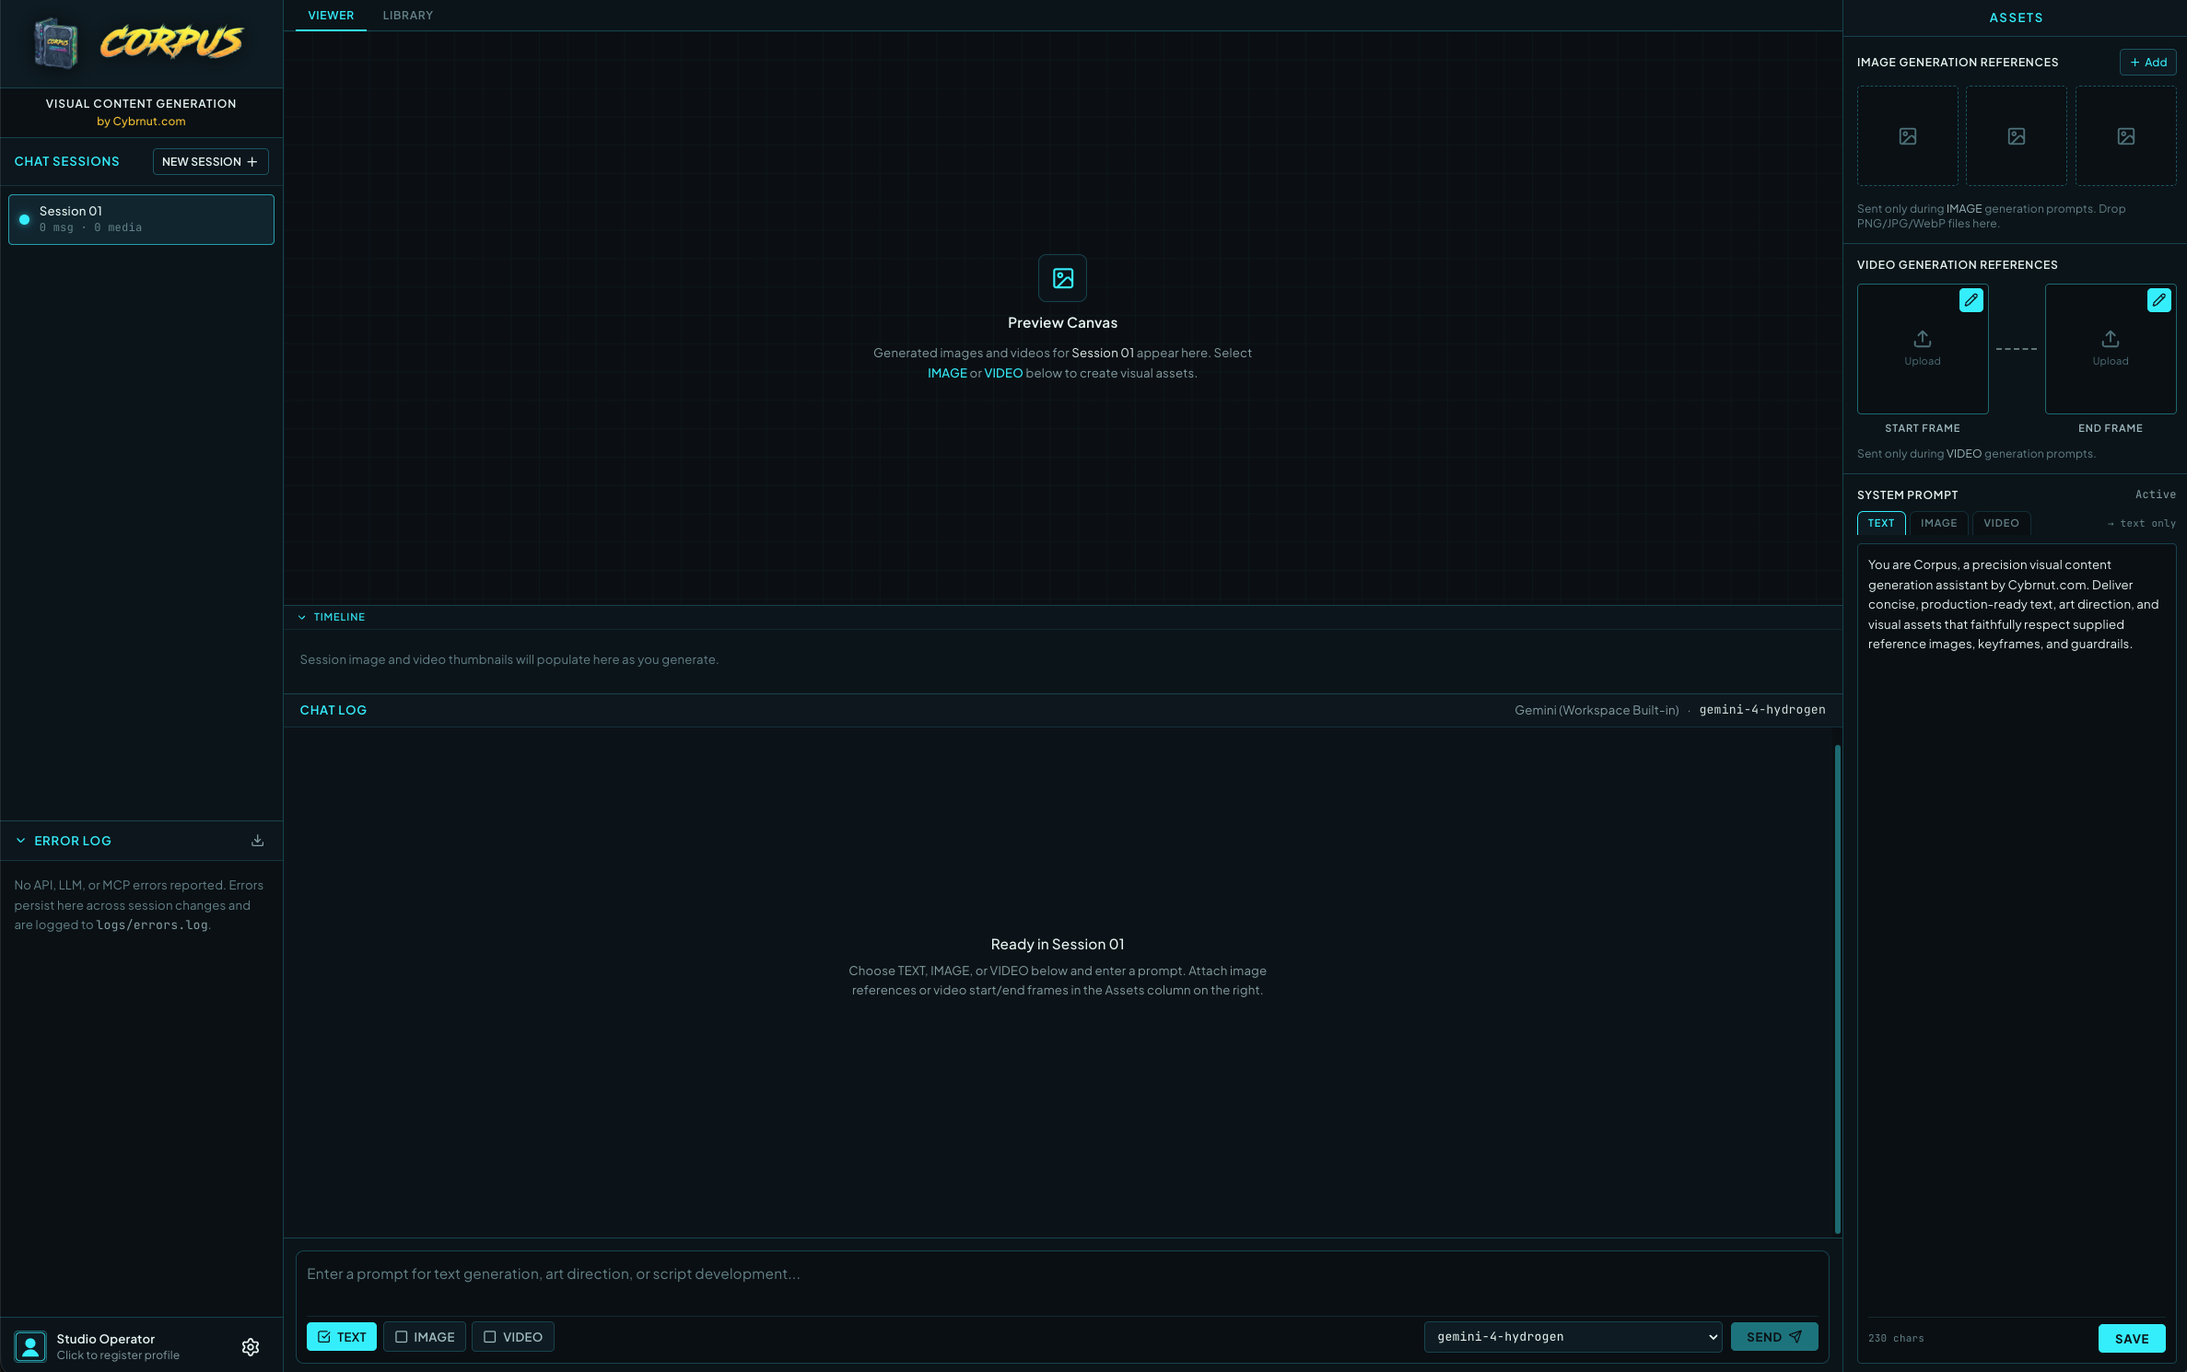
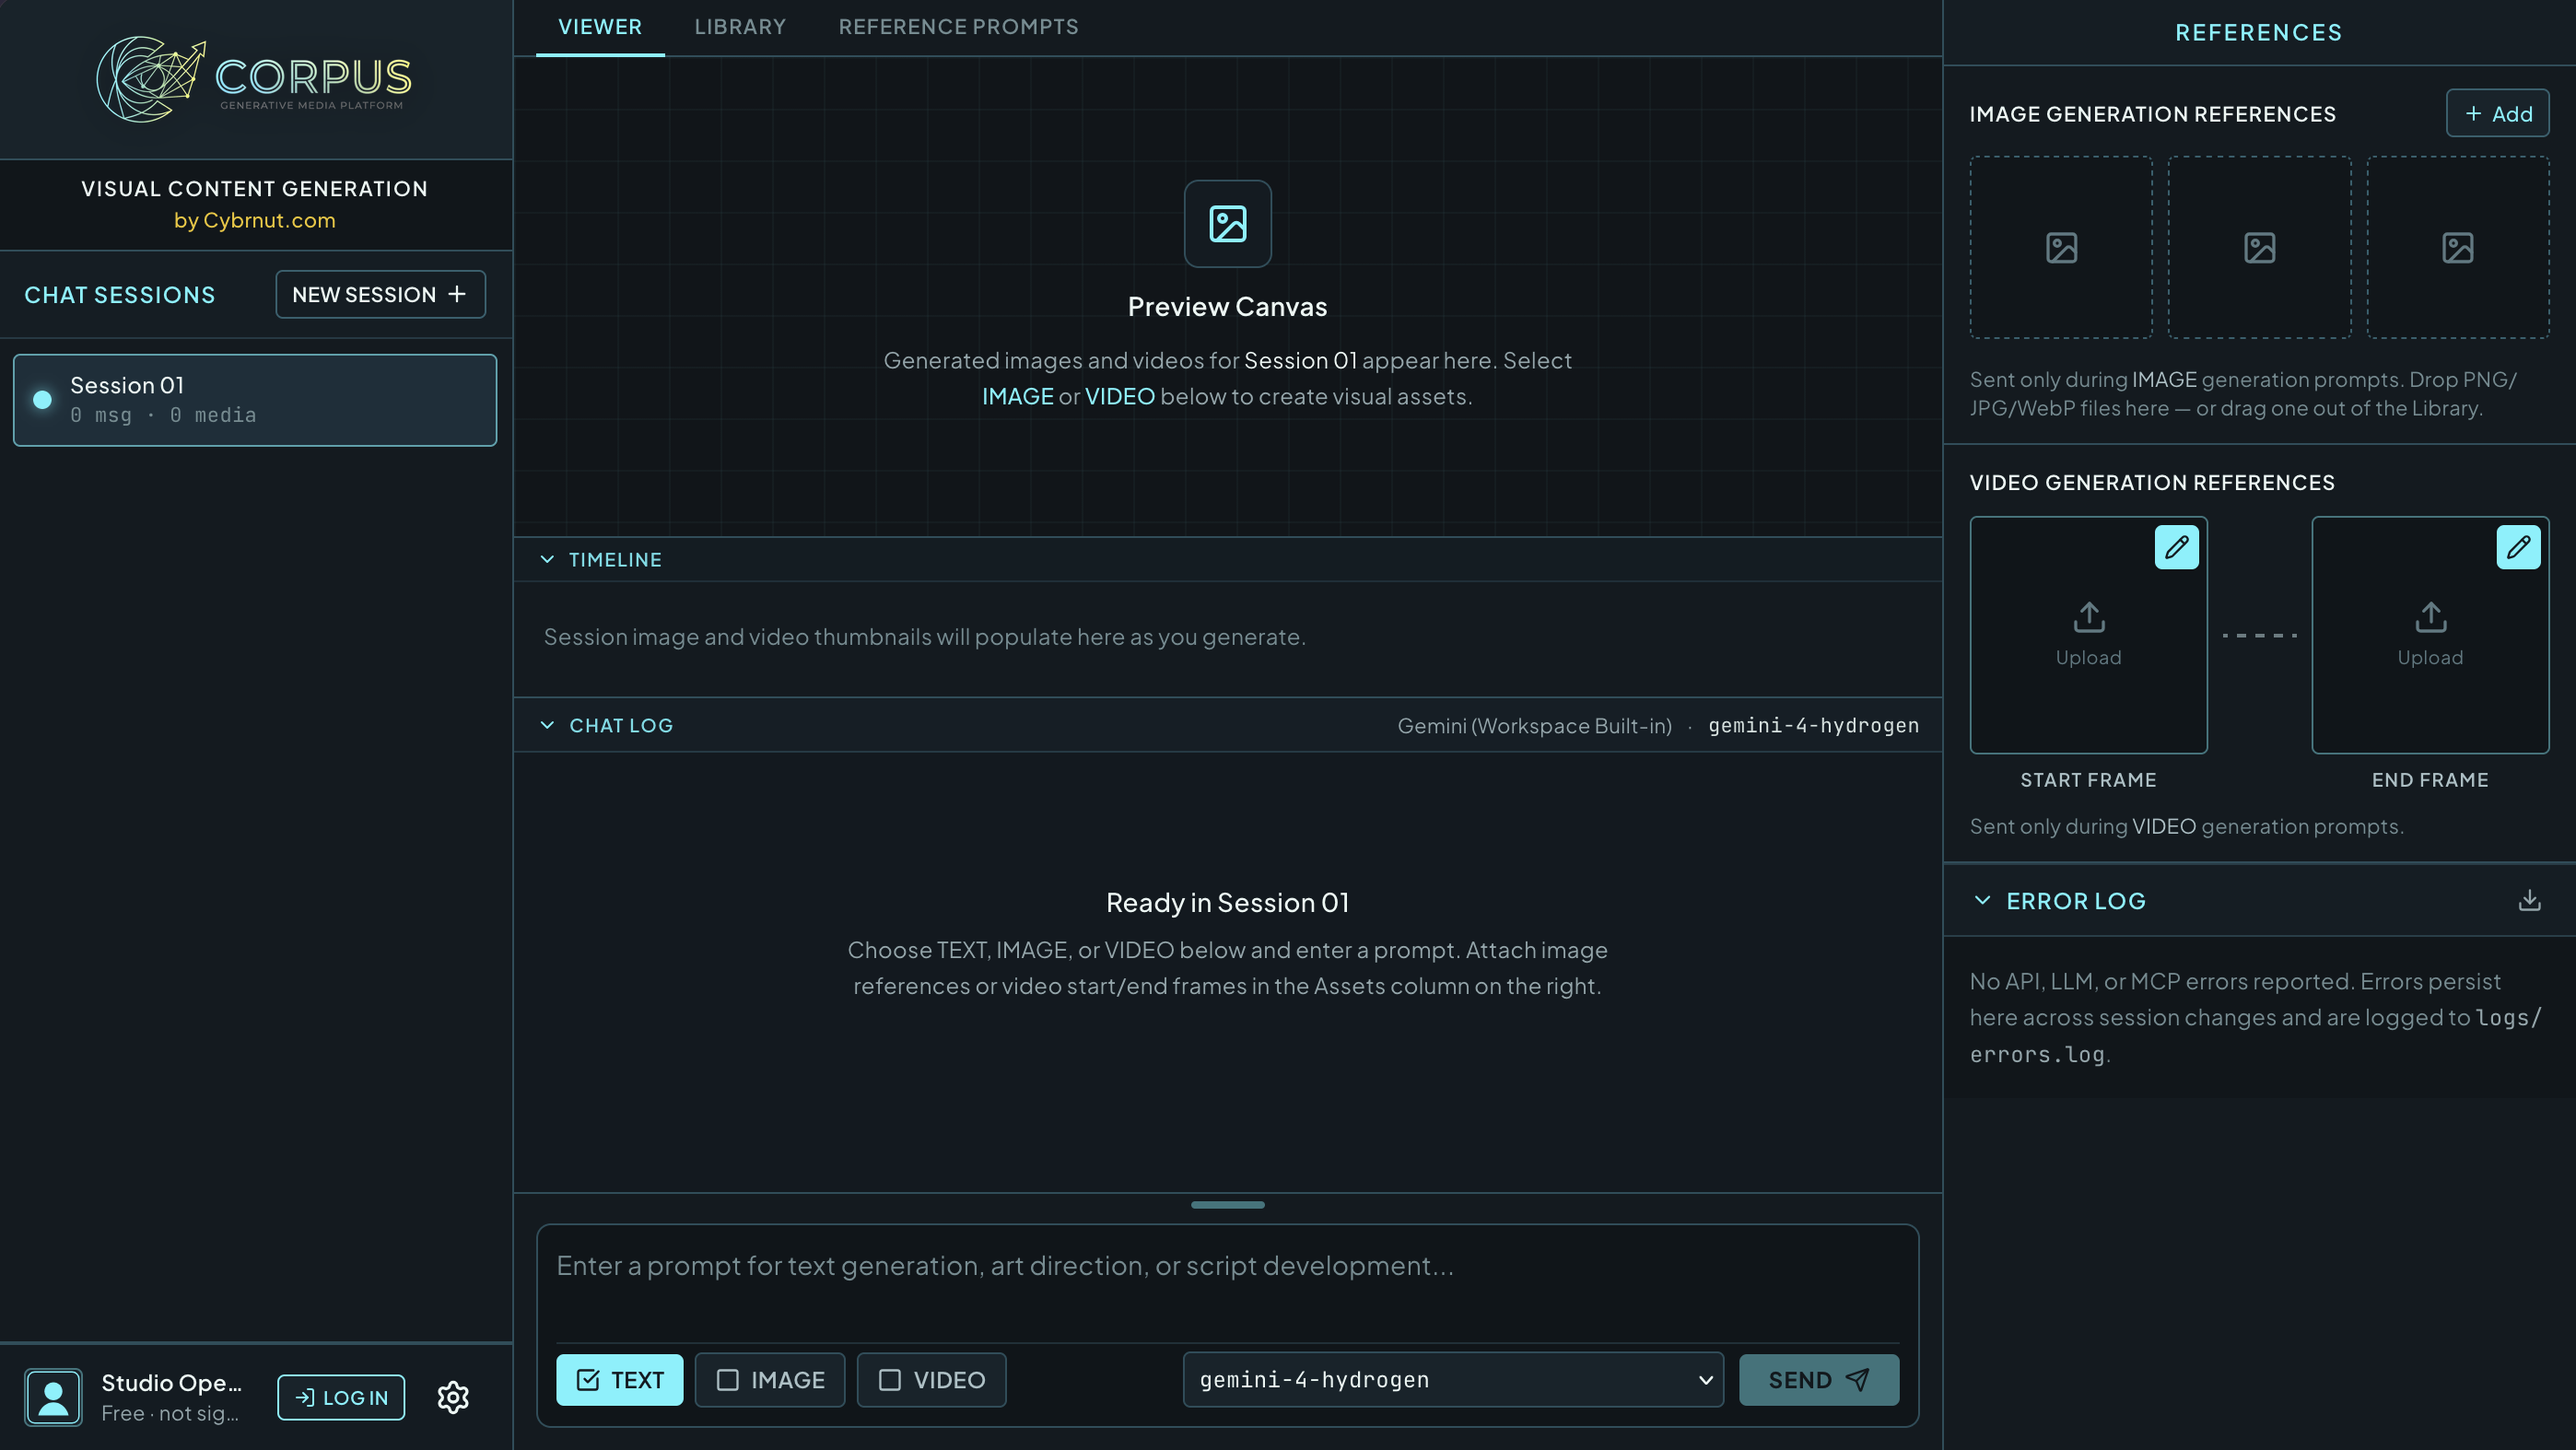
fix(hero): realign inspector overlays to new workspace screenshot
- Recalibrate all five INSPECTOR_REGIONS highlight boxes to Edward's new Screenshot1 (wider sidebar, VIEWER/LIBRARY/REFERENCE PROMPTS tab bar, retitled REFERENCES column, stacked image/video reference panels).

- Retarget the system-prompts region to the REFERENCE PROMPTS tab; button label 'System Prompts' -> 'Reference Prompts'; title/description updated. Region id kept.

- Image box aspect-[16/10] -> aspect-[16/9] to match the new 2796x1574 screenshot (no object-cover crop).

- Bring over only public/assets/aistudio/Screenshot1_85eab72d.png from bec1c1f; background assets (cyberpunkbg1/2, crt) untouched.

- Refresh embedded-image alt text to match the new UI.

diff --git a/src/data/corpusData.ts b/src/data/corpusData.ts
@@ -51,7 +51,7 @@ export const INSPECTOR_REGIONS: InspectorRegion[] = [
     title: 'High-Contrast Asset Viewer & Timeline',
     description:
       'Review the most recent or selected image and video directly on the grid canvas, with every session asset indexed along the timeline strip beneath it.',
-    highlight: { top: '2.5%', left: '13.5%', width: '70.3%', height: '47%' },
+    highlight: { top: '4.8%', left: '20.3%', width: '54.6%', height: '42.6%' },
   },
   {
     id: 'image-stack',
@@ -59,7 +59,7 @@ export const INSPECTOR_REGIONS: InspectorRegion[] = [
     title: 'Visual Reference Conditioning',
     description:
       'Drop PNG, JPG, or WebP reference frames into the dedicated Image Generation Reference stack. References are sent only during image prompts to maintain style, composition, and subject continuity.',
-    highlight: { top: '3.2%', left: '84.4%', width: '15.2%', height: '14.5%' },
+    highlight: { top: '4.8%', left: '76.2%', width: '22.8%', height: '26.2%' },
   },
   {
     id: 'video-stack',
@@ -67,15 +67,15 @@ export const INSPECTOR_REGIONS: InspectorRegion[] = [
     title: 'Start Frame & End Frame Anchoring',
     description:
       'Assign explicit Start Frame and End Frame keyframes in the Video Generation Reference stack so motion models interpolate cleanly between two visual states.',
-    highlight: { top: '18.2%', left: '84.4%', width: '15.2%', height: '16%' },
+    highlight: { top: '31.4%', left: '76.2%', width: '22.8%', height: '27.2%' },
   },
   {
     id: 'system-prompts',
-    label: 'System Prompts',
-    title: 'Modality-Specific System Prompts',
+    label: 'Reference Prompts',
+    title: 'Reference Prompts Tab',
     description:
-      'Switch between independent TEXT, IMAGE, and VIDEO system prompt tabs. Keep art direction rules, output formatting, and negative constraints separate for each modality.',
-    highlight: { top: '34.8%', left: '84.4%', width: '15.2%', height: '64.2%' },
+      'Open the saved TEXT, IMAGE, and VIDEO prompt collections for the active session from the REFERENCE PROMPTS tab in the top bar.',
+    highlight: { top: '0.8%', left: '31.5%', width: '11.5%', height: '4.0%' },
   },
   {
     id: 'chat-composer',
@@ -83,7 +83,7 @@ export const INSPECTOR_REGIONS: InspectorRegion[] = [
     title: 'Multi-Provider Chat & Mode Switcher',
     description:
       'Work in a familiar conversational log while switching between TEXT, IMAGE, and VIDEO modes and selecting the exact LLM provider or model from the bottom routing bar.',
-    highlight: { top: '50.5%', left: '13.5%', width: '70.3%', height: '48.2%' },
+    highlight: { top: '48.2%', left: '20.3%', width: '54.6%', height: '50.5%' },
   },
 ];
 

diff --git a/src/components/HeroSection.tsx b/src/components/HeroSection.tsx
@@ -109,11 +109,11 @@ export function HeroSection() {
 
           {/* Precision Bezel Frame holding Screenshot1 */}
           <div className="mt-4 overflow-hidden rounded-2xl border border-[#1F3A47] bg-[#0B1217] shadow-[0_24px_80px_rgba(0,0,0,0.65)]">
-            <div className="relative aspect-[16/10] w-full overflow-hidden bg-[#080E12]">
+            <div className="relative aspect-[16/9] w-full overflow-hidden bg-[#080E12]">
               {!shotFailed ? (
                 <img
                   src={ASSETS.screenshot}
-                  alt="Corpus web studio interface displaying the preview canvas, chat session log, image and video reference stacks, and modality-specific system prompts"
+                  alt="Corpus web studio interface displaying the preview canvas, Reference Prompts tab, image and video reference panels, and the multi-provider chat composer"
                   referrerPolicy="no-referrer"
                   onError={() => setShotFailed(true)}
                   className="h-full w-full object-cover object-top"
